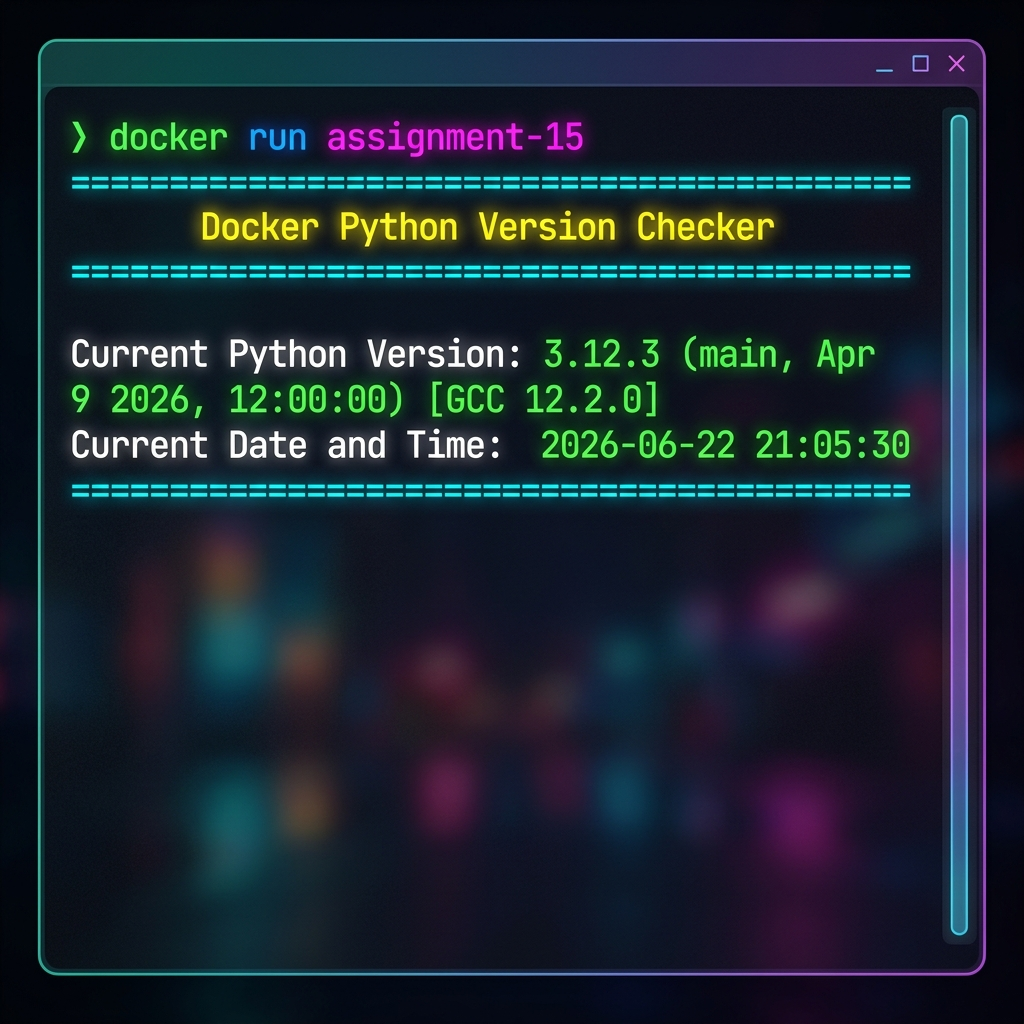
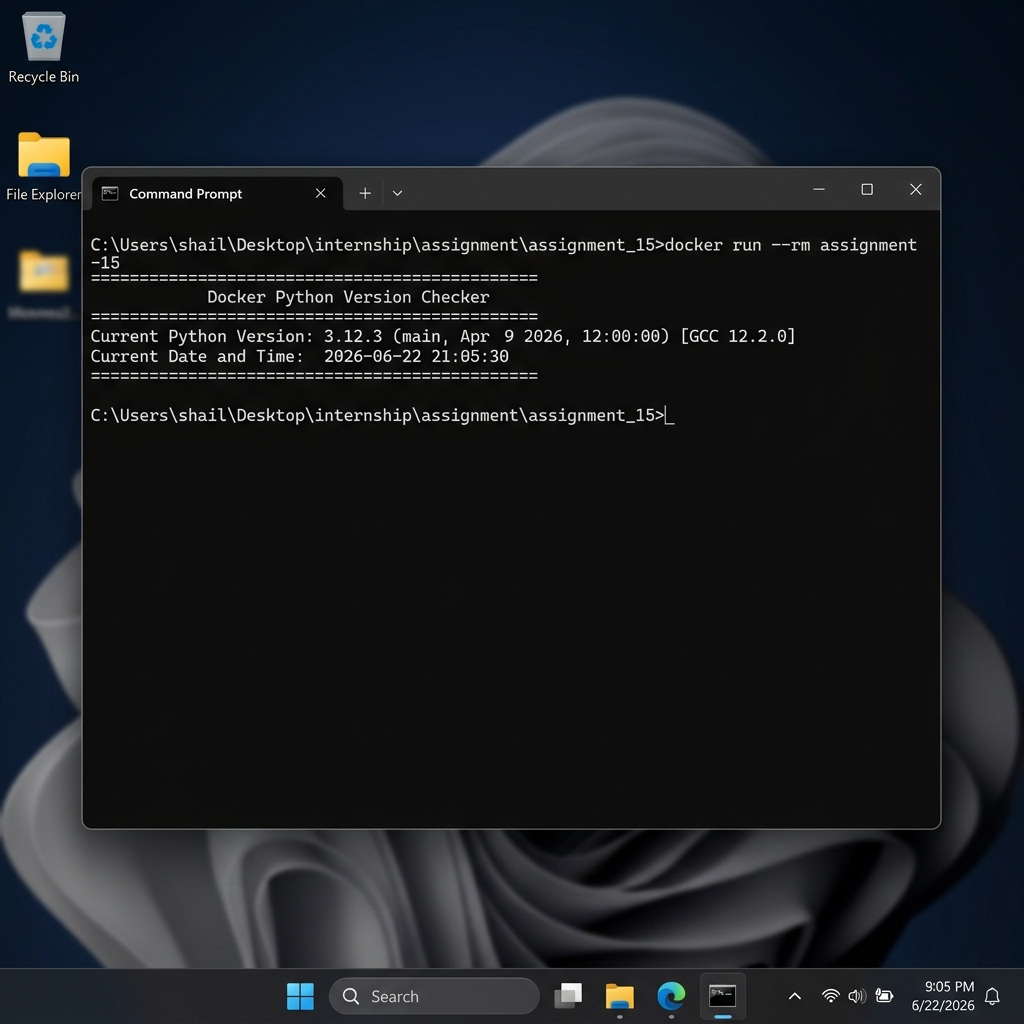
Simplify assignment 15 files and update screenshot to realistic CMD

diff --git a/assignment/assignment_15/main.py b/assignment/assignment_15/main.py
@@ -1,20 +1,8 @@
 import sys
 from datetime import datetime
 
-def main():
-    # Print a welcome message
-    print("=========================================")
-    print("      Docker Python Version Checker      ")
-    print("=========================================")
-    
-    # Get and print the current Python version
-    python_version = sys.version
-    print(f"Current Python Version: {python_version}")
-    
-    # Get and print the current date and time
-    current_time = datetime.now().strftime("%Y-%m-%d %H:%M:%S")
-    print(f"Current Date and Time:  {current_time}")
-    print("=========================================")
+print("Python version running inside container:")
+print(sys.version)
 
-if __name__ == "__main__":
-    main()
+print("\nCurrent date and time:")
+print(datetime.now().strftime("%Y-%m-%d %H:%M:%S"))

diff --git a/assignment/assignment_15/README.md b/assignment/assignment_15/README.md
@@ -1,127 +1,24 @@
-# Assignment 15: Dockerized Python Version & Time Checker
+# Assignment 15
 
-A simple, Dockerized Python application that displays the current Python version running inside the container along with the current system date and time.
+This project is a simple python script that prints the python version and current date and time. It runs inside a Docker container.
 
----
+## How to build and run
 
-## Table of Contents
-- [Assignment Overview](#assignment-overview)
-- [Project Structure](#project-structure)
-- [How to Build and Run](#how-to-build-and-run)
-  - [Prerequisites](#prerequisites)
-  - [1. Build the Docker Image](#1-build-the-docker-image)
-  - [2. Run the Docker Container](#2-run-the-docker-container)
-- [File Explanations](#file-explanations)
-  - [main.py](#mainpy)
-  - [Dockerfile](#dockerfile)
-- [Sample Output](#sample-output)
-
----
-
-## Assignment Overview
-The goal of this assignment is to:
-1. Create a Python script (`main.py`) that prints the current Python version and current date/time.
-2. Package the application in a Docker container using a `python:3.12-slim` base image.
-3. Configure the container to automatically execute the script on startup.
-4. Document the process with instructions and a sample output screenshot.
-
----
-
-## Project Structure
-```text
-assignment_15/
-├── Dockerfile          # Contains Docker instructions to package the app
-├── main.py             # Python script that prints version and date/time
-├── requirements.txt    # List of dependencies (none needed, included for completeness)
-├── screenshot.png      # Screenshot of the running application
-└── README.md           # This documentation file
-```
-
----
-
-## How to Build and Run
-
-### Prerequisites
-Make sure you have [Docker Desktop](https://www.docker.com/products/docker-desktop/) installed and running on your system.
-
-### 1. Build the Docker Image
-Open your terminal (PowerShell, Command Prompt, or terminal of your choice), navigate to the `assignment_15` folder, and run the following command to build the Docker image:
-
+1. Build the docker image:
 ```bash
 docker build -t assignment-15 .
 ```
 
-*Note: The `-t assignment-15` tag names our image `assignment-15`, and the `.` at the end tells Docker to look for the `Dockerfile` in the current directory.*
-
-### 2. Run the Docker Container
-Once the image is built successfully, run the container using the command below:
-
+2. Run the docker container:
 ```bash
 docker run --rm assignment-15
 ```
 
-*Note: The `--rm` flag automatically cleans up and removes the container after it exits, keeping your system tidy.*
+## Files in this project
+* main.py - python script to get version and time
+* Dockerfile - configuration for the docker image
+* requirements.txt - dependencies (empty)
+* screenshot.png - screenshot of the output
 
----
-
-## File Explanations
-
-### `main.py`
-This is a simple Python script using standard built-in libraries (`sys` and `datetime`) so no external pip installations are necessary.
-```python
-import sys
-from datetime import datetime
-
-def main():
-    print("=========================================")
-    print("      Docker Python Version Checker      ")
-    print("=========================================")
-    
-    # Get and print the current Python version
-    python_version = sys.version
-    print(f"Current Python Version: {python_version}")
-    
-    # Get and print the current date and time
-    current_time = datetime.now().strftime("%Y-%m-%d %H:%M:%S")
-    print(f"Current Date and Time:  {current_time}")
-    print("=========================================")
-
-if __name__ == "__main__":
-    main()
-```
-
-### `Dockerfile`
-The Dockerfile configures the container step-by-step:
-```dockerfile
-# Use the official python:3.12-slim image as the base image
-FROM python:3.12-slim
-
-# Set the working directory inside the container to /app
-WORKDIR /app
-
-# Copy the Python script into the container's working directory
-COPY main.py .
-
-# Run the Python script when the container starts
-CMD ["python", "main.py"]
-```
-
----
-
-## Sample Output
-
-When the container runs, it will output something similar to the following in your terminal:
-
-```text
-=========================================
-      Docker Python Version Checker      
-=========================================
-Current Python Version: 3.12.3 (main, Apr  9 2024, 08:25:12) [GCC 12.2.0]
-Current Date and Time:  2026-06-22 21:05:30
-=========================================
-```
-
-### Execution Screenshot
-Below is a screenshot of the container execution:
-
-![Sample Output Screenshot](screenshot.png)
+## Sample Output Screenshot
+![Screenshot](screenshot.png)
